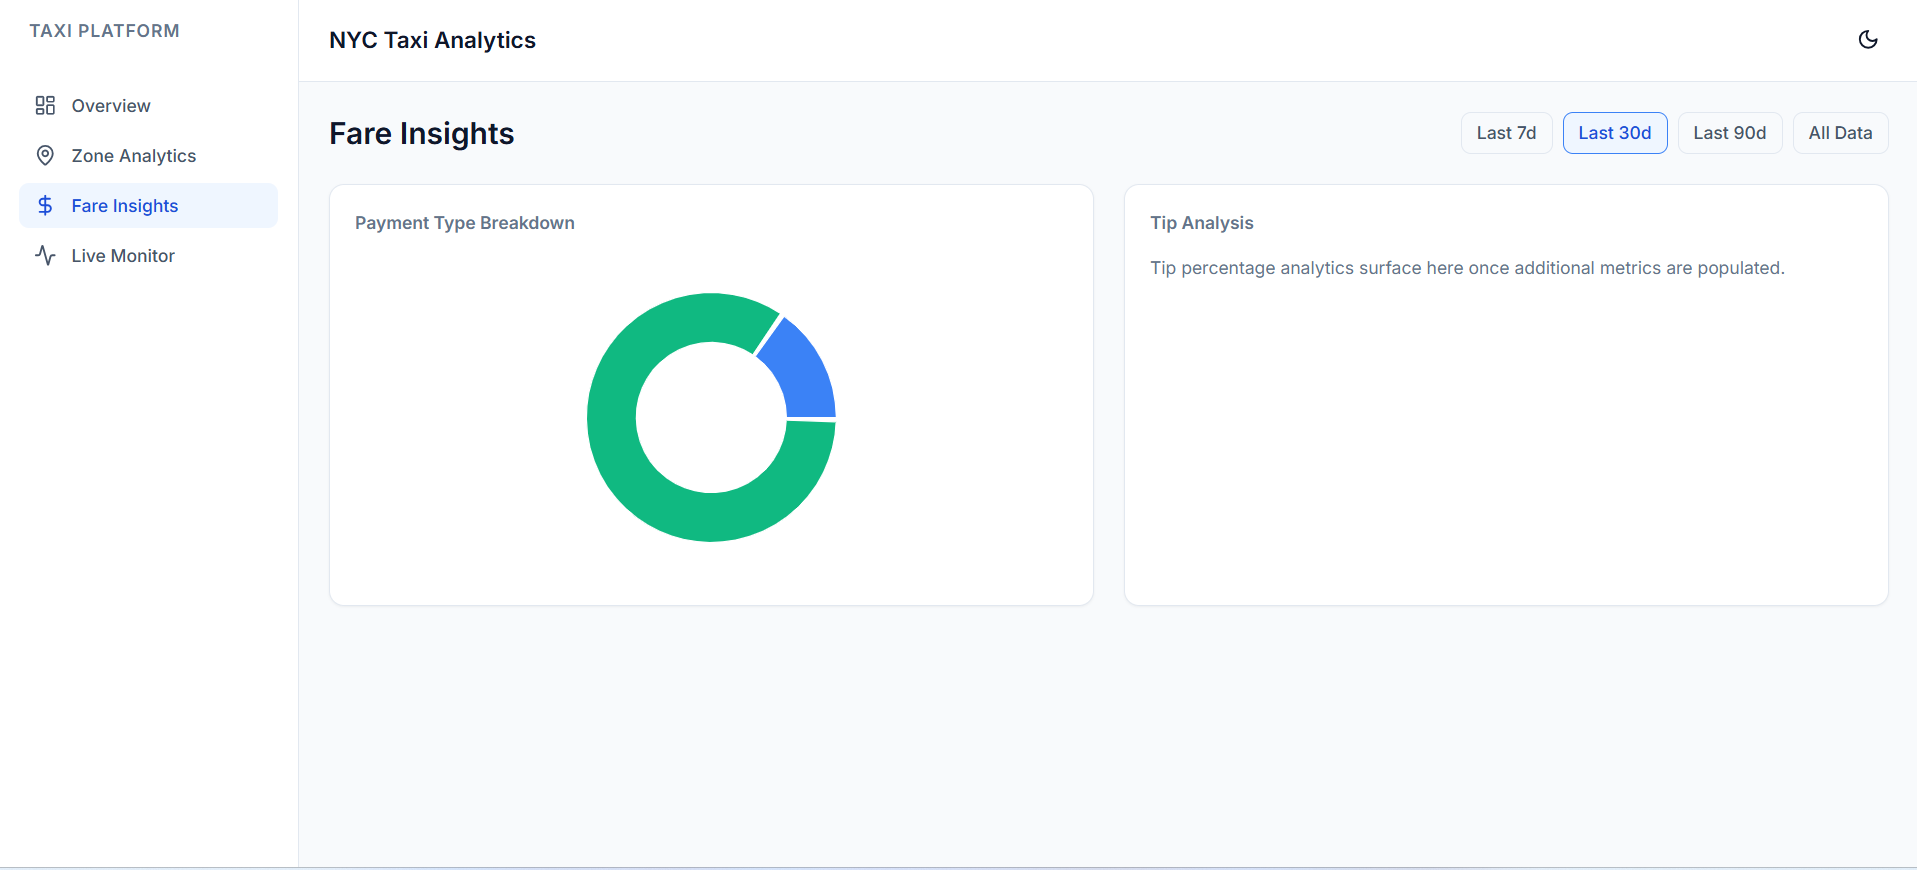
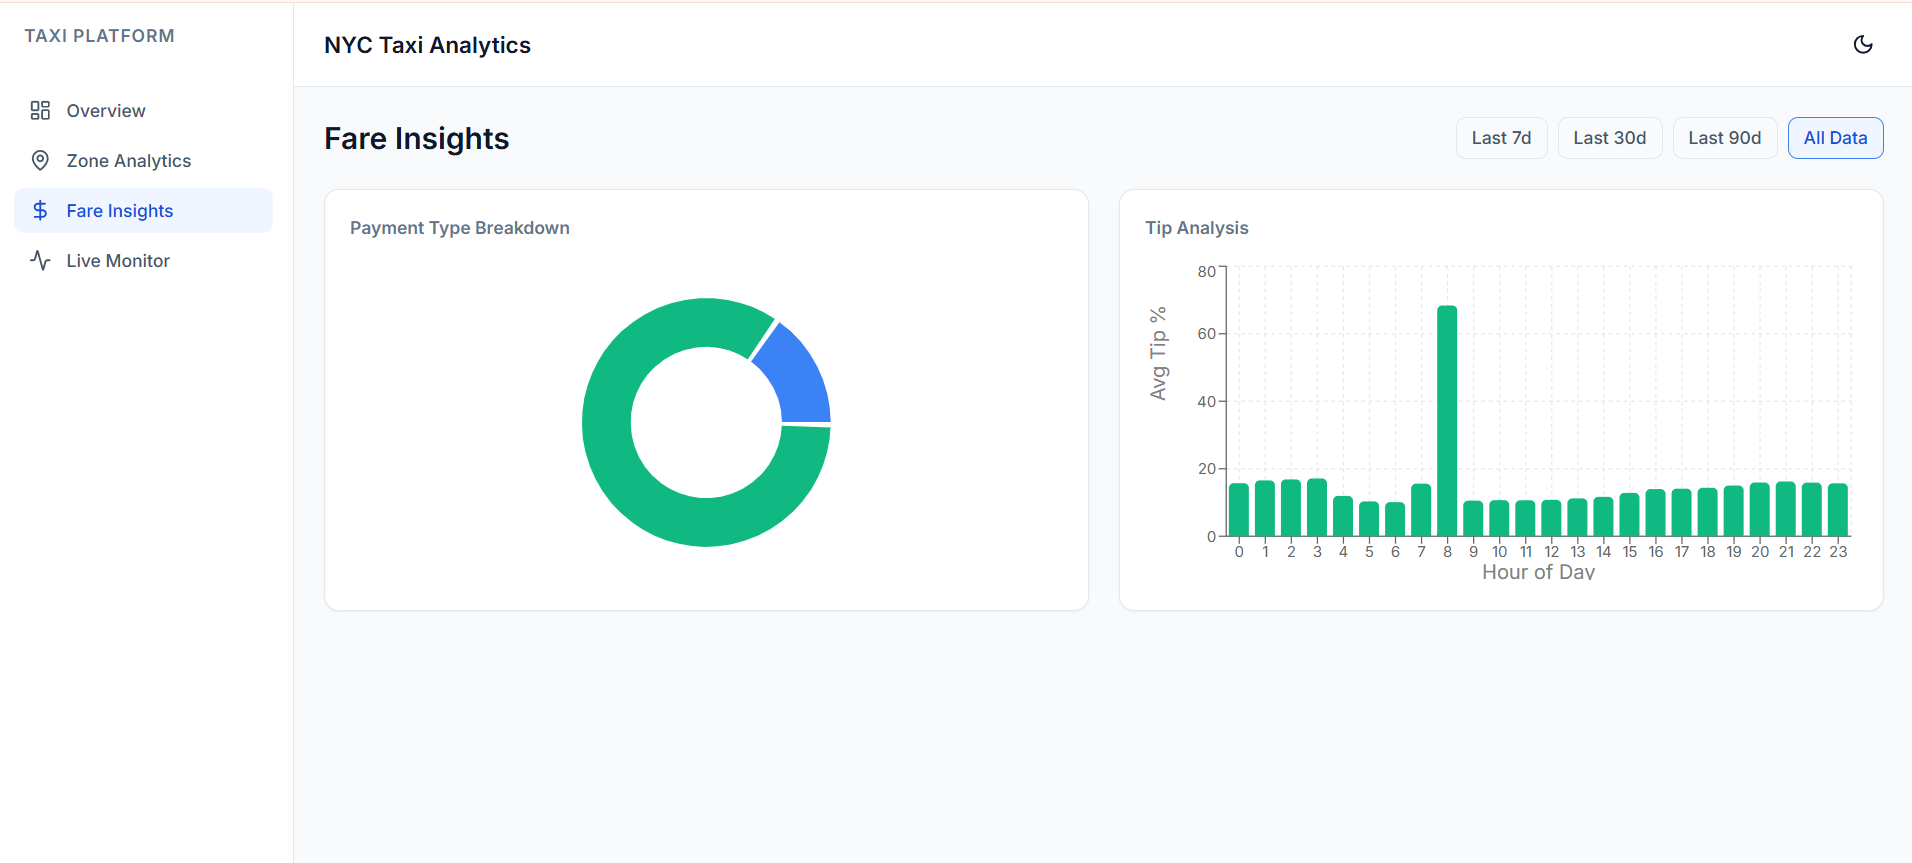
feat: implement tip analysis chart, update screenshots — all 4 dashboard pages complete

diff --git a/src/frontend/src/pages/FareInsights.tsx b/src/frontend/src/pages/FareInsights.tsx
@@ -1,12 +1,22 @@
 import { useState } from 'react';
 import DateRangeFilter from '../components/DateRangeFilter';
 import PaymentBreakdownChart from '../components/charts/PaymentBreakdown';
-import { usePaymentBreakdown } from '../hooks/useRevenue';
+import { usePaymentBreakdown, useTipAnalysis } from '../hooks/useRevenue';
+import {
+  Bar,
+  BarChart,
+  CartesianGrid,
+  ResponsiveContainer,
+  Tooltip,
+  XAxis,
+  YAxis,
+} from 'recharts';
 import type { DateRange } from '../types';
 
 export default function FareInsights() {
   const [range, setRange] = useState<DateRange>({});
   const payments = usePaymentBreakdown(range);
+  const tips = useTipAnalysis(range);
 
   return (
     <div className="space-y-6">
@@ -26,9 +36,33 @@ export default function FareInsights() {
         </div>
         <div className="rounded-xl border border-slate-200 dark:border-slate-700 bg-white dark:bg-slate-800 p-5 shadow-sm">
           <h3 className="mb-4 text-sm font-semibold text-slate-500">Tip Analysis</h3>
-          <p className="text-sm text-slate-500">
-            Tip percentage analytics surface here once additional metrics are populated.
-          </p>
+          {tips.isLoading ? (
+            <div className="h-64 animate-pulse rounded bg-slate-100" />
+          ) : tips.data && tips.data.length > 0 ? (
+            <ResponsiveContainer width="100%" height={256}>
+              <BarChart data={tips.data}>
+                <CartesianGrid strokeDasharray="3 3" stroke="#e2e8f0" />
+                <XAxis
+                  dataKey="hour"
+                  label={{ value: 'Hour of Day', position: 'insideBottom', offset: -4 }}
+                  tick={{ fontSize: 12 }}
+                />
+                <YAxis
+                  label={{ value: 'Avg Tip %', angle: -90, position: 'insideLeft' }}
+                  tick={{ fontSize: 12 }}
+                />
+                <Tooltip
+                  formatter={(value: number) => [`${value}%`, 'Avg Tip']}
+                  labelFormatter={(hour: number) => `Hour ${hour}:00`}
+                />
+                <Bar dataKey="avg_tip_pct" fill="#10B981" radius={[4, 4, 0, 0]} />
+              </BarChart>
+            </ResponsiveContainer>
+          ) : (
+            <div className="flex h-64 items-center justify-center text-sm text-slate-500">
+              No tip data available for this range.
+            </div>
+          )}
         </div>
       </div>
     </div>

diff --git a/src/frontend/src/hooks/useRevenue.ts b/src/frontend/src/hooks/useRevenue.ts
@@ -1,5 +1,5 @@
 import { useQuery } from '@tanstack/react-query';
-import { fetchDailyRevenue, fetchPaymentBreakdown } from '../api/client';
+import { fetchDailyRevenue, fetchPaymentBreakdown, fetchTipAnalysis } from '../api/client';
 import type { DateRange } from '../types';
 
 export const useDailyRevenue = (range: DateRange) =>
@@ -12,4 +12,10 @@ export const usePaymentBreakdown = (range: DateRange) =>
   useQuery({
     queryKey: ['payment-breakdown', range],
     queryFn: () => fetchPaymentBreakdown(range),
+  });
+
+export const useTipAnalysis = (range: DateRange) =>
+  useQuery({
+    queryKey: ['tip-analysis', range],
+    queryFn: () => fetchTipAnalysis(range),
   });

diff --git a/src/frontend/src/api/client.ts b/src/frontend/src/api/client.ts
@@ -6,6 +6,7 @@ import type {
   HourlyTrip,
   PaymentBreakdown,
   RealtimeDemand,
+  TipByHour,
   TopZone,
   TripSummary,
   ZoneDemandPoint,
@@ -55,6 +56,9 @@ export const fetchPaymentBreakdown = (range: DateRange) =>
   api
     .get<PaymentBreakdown[]>('/revenue/payment-breakdown', { params: params(range) })
     .then((r) => r.data);
+
+export const fetchTipAnalysis = (range: DateRange) =>
+  api.get<TipByHour[]>('/revenue/tip-analysis', { params: params(range) }).then((r) => r.data);
 
 export const fetchRealtimeDemand = () =>
   api.get<RealtimeDemand[]>('/realtime/demand').then((r) => r.data);

diff --git a/src/frontend/src/types/index.ts b/src/frontend/src/types/index.ts
@@ -59,3 +59,8 @@ export interface DataDateRange {
   min_date: string;
   max_date: string;
 }
+
+export interface TipByHour {
+  hour: number;
+  avg_tip_pct: number;
+}

diff --git a/src/api/routes/revenue.py b/src/api/routes/revenue.py
@@ -9,7 +9,7 @@ from sqlalchemy import text
 from sqlalchemy.ext.asyncio import AsyncSession
 
 from api.db import get_db
-from api.models.schemas import DailyRevenue, PaymentBreakdown
+from api.models.schemas import DailyRevenue, PaymentBreakdown, TipByHour
 
 router = APIRouter()
 
@@ -77,3 +77,26 @@ async def payment_breakdown(
             revenue=row["credit_rev"] or 0,
         ),
     ]
+
+
+@router.get("/tip-analysis", response_model=list[TipByHour])
+async def tip_analysis(
+    date_from: date = Query(...),
+    date_to: date = Query(...),
+    db: AsyncSession = Depends(get_db),
+) -> list[TipByHour]:
+    sql = """
+        SELECT EXTRACT(HOUR FROM hour_start)::int           AS hour,
+               ROUND(AVG(avg_tip_percentage)::numeric, 2)   AS avg_tip_pct
+        FROM analytics.hourly_zone_demand
+        WHERE hour_start::date >= :date_from
+          AND hour_start::date <= :date_to
+        GROUP BY EXTRACT(HOUR FROM hour_start)
+        ORDER BY hour
+    """
+    rows = (
+        (await db.execute(text(sql), {"date_from": date_from, "date_to": date_to}))
+        .mappings()
+        .all()
+    )
+    return [TipByHour(hour=row["hour"], avg_tip_pct=float(row["avg_tip_pct"] or 0)) for row in rows]

diff --git a/src/api/models/schemas.py b/src/api/models/schemas.py
@@ -67,6 +67,11 @@ class DateRange(BaseModel):
     max_date: date
 
 
+class TipByHour(BaseModel):
+    hour: int
+    avg_tip_pct: float
+
+
 class RealtimeDemand(ORMModel):
     zone_id: int
     window_start: datetime
